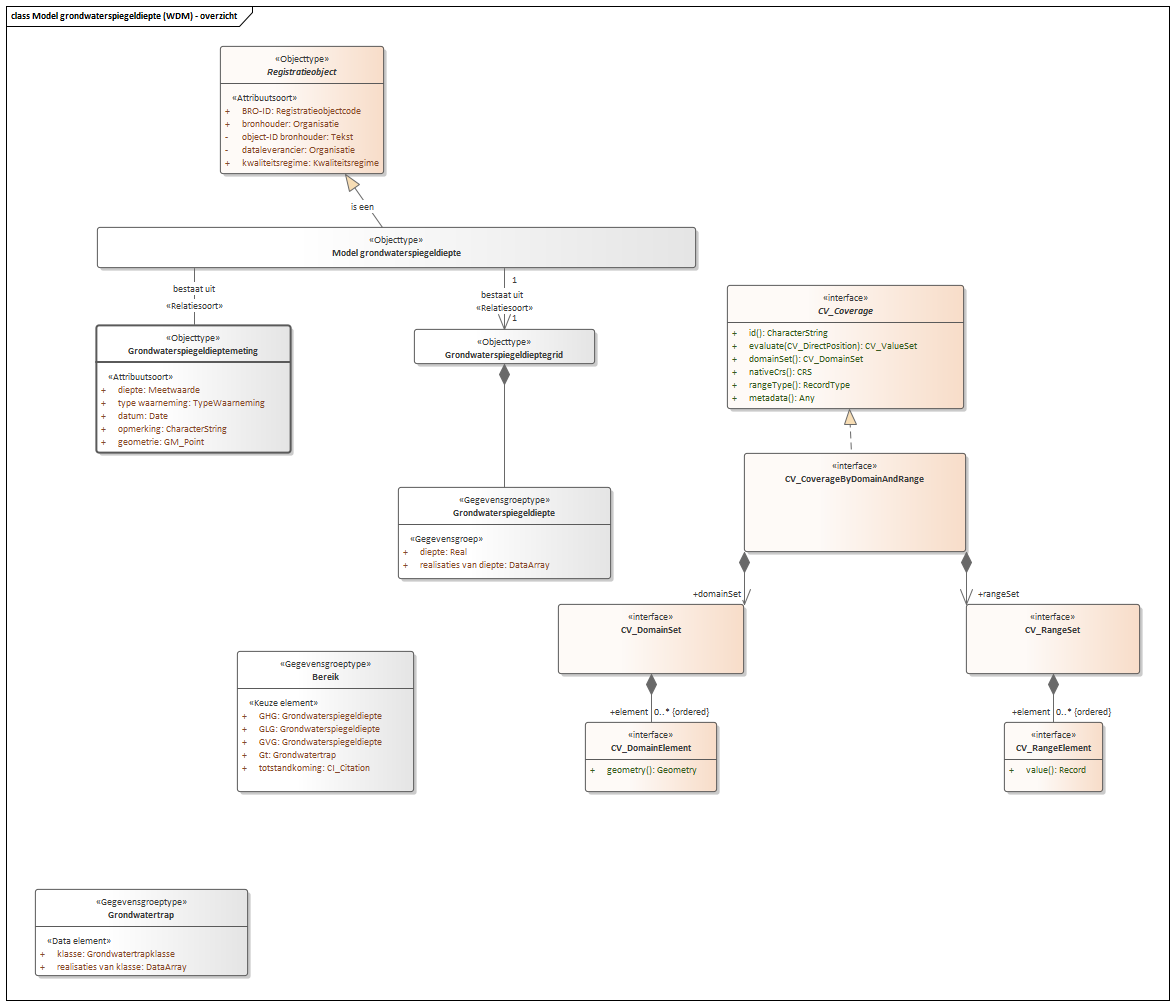
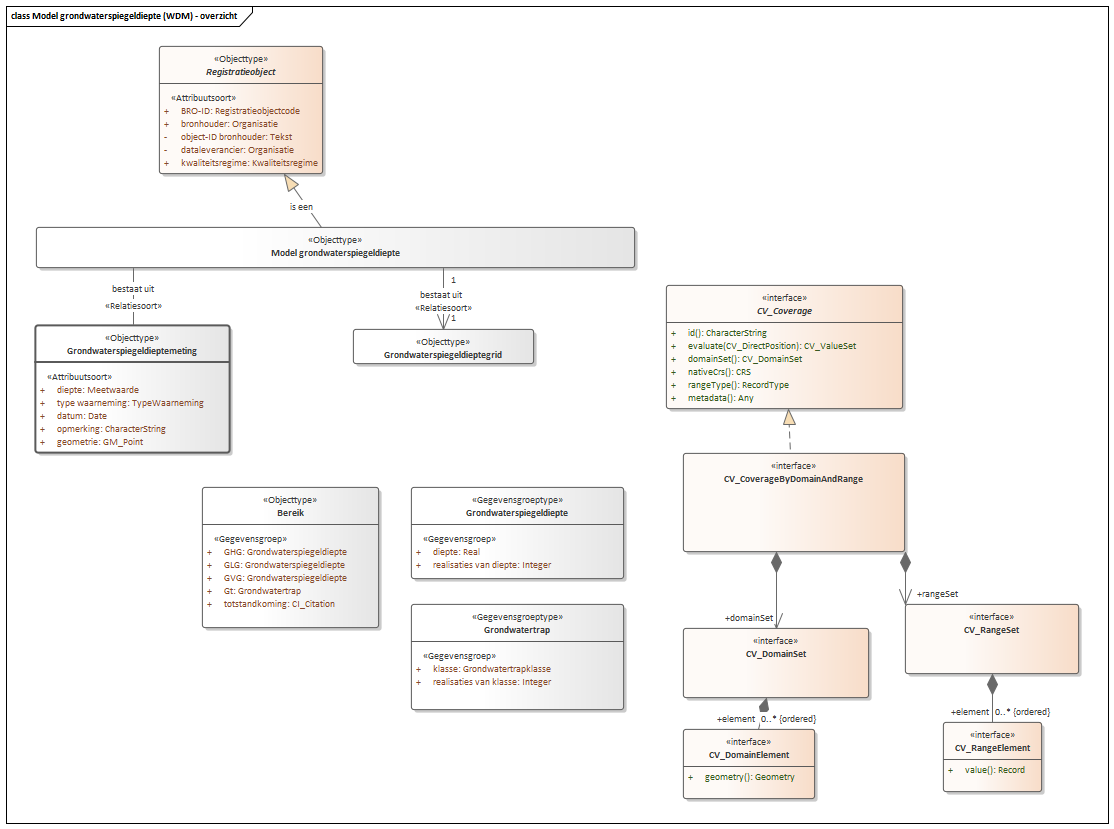
Conceptualmodel-ModelgrondwaterspiegeldiepteWDM-conceptueel-1.0-1-20200721-20201027-111758

diff --git a/data/WDM-cat.msword.html b/data/WDM-cat.msword.html
@@ -15,7 +15,7 @@
    <body>
       <p>Conceptual model/Model grondwaterspiegeldiepte (WDM) - conceptueel/20200721</p>
       <p>Imvertor: 1.61.3</p>
-      <p>Model release: Conceptualmodel-ModelgrondwaterspiegeldiepteWDM-conceptueel-1.0-1-20200721-20201026-120025</p>
+      <p>Model release: Conceptualmodel-ModelgrondwaterspiegeldiepteWDM-conceptueel-1.0-1-20200721-20201027-111758</p>
       <hr>
       <section>
          <h1>Artikel 1 Definitie van registratieobject, entiteiten en attributen</h1>
@@ -50,7 +50,7 @@
          <section>
             <h2>Het domeinmodel</h2>
             <section id="">
-               <div class="imageinfo overview"><img src="Images/EAID_32DF32C8_5066_4b21_A5D5_EE7F2DB49F77.png" usemap="#imagemap-EAID_32DF32C8_5066_4b21_A5D5_EE7F2DB49F77" alt="Diagram "><map name="imagemap-EAID_32DF32C8_5066_4b21_A5D5_EE7F2DB49F77"><area shape="rect" alt="Grondwaterspiegeldieptegrid" coords="414,329,595,364" href="#graph_EAID_330757FF_F73A_4c69_AFB0_B255971A3DF7"><area shape="rect" alt="Grondwaterspiegeldieptemeting" coords="96,325,291,453" href="#graph_EAID_BEAD8A51_C8E2_4fb6_8DF2_52ED4E1FB678"><area shape="rect" alt="Registratieobject" coords="220,46,384,174" href="#graph_EAID_3A7AEE32_4ECA_4822_9009_121A0679605E"><area shape="rect" alt="Model grondwaterspiegeldiepte" coords="97,227,696,268" href="#graph_EAID_FCE5BAFD_33CD_4c9b_878F_04A61B1ED0BE"></map><p><b>Model grondwaterspiegeldiepte (WDM)</b></p>
+               <div class="imageinfo overview"><img src="Images/EAID_32DF32C8_5066_4b21_A5D5_EE7F2DB49F77.png" usemap="#imagemap-EAID_32DF32C8_5066_4b21_A5D5_EE7F2DB49F77" alt="Diagram "><map name="imagemap-EAID_32DF32C8_5066_4b21_A5D5_EE7F2DB49F77"><area shape="rect" alt="Grondwaterspiegeldieptegrid" coords="353,329,534,364" href="#graph_EAID_330757FF_F73A_4c69_AFB0_B255971A3DF7"><area shape="rect" alt="Grondwaterspiegeldieptemeting" coords="35,325,230,453" href="#graph_EAID_BEAD8A51_C8E2_4fb6_8DF2_52ED4E1FB678"><area shape="rect" alt="Registratieobject" coords="159,46,323,174" href="#graph_EAID_3A7AEE32_4ECA_4822_9009_121A0679605E"><area shape="rect" alt="Model grondwaterspiegeldiepte" coords="36,227,635,268" href="#graph_EAID_FCE5BAFD_33CD_4c9b_878F_04A61B1ED0BE"></map><p><b>Model grondwaterspiegeldiepte (WDM)</b></p>
                </div>
             </section>
          </section>
